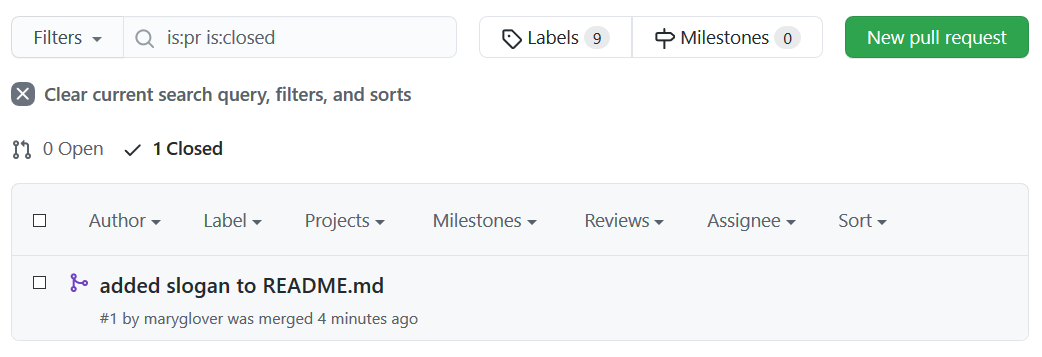
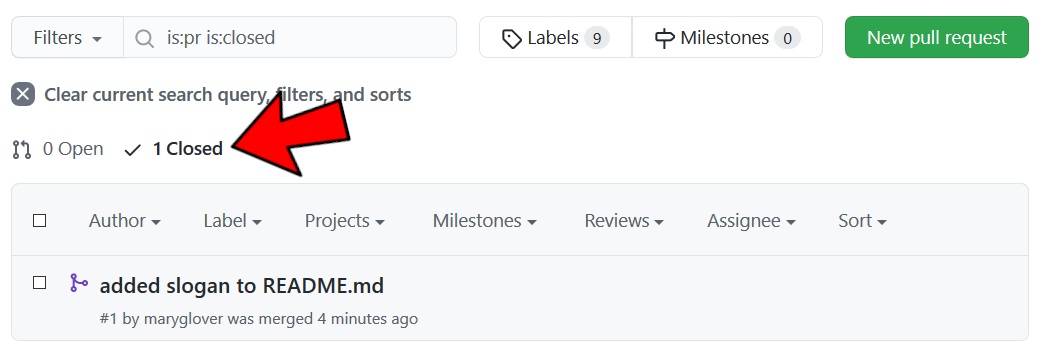
Add arrows to images

Changed region(s): [[0.215, 0.2465, 0.3378, 0.493]]

diff --git a/slides/issue.md b/slides/issue.md
@@ -19,7 +19,7 @@ You can reference users, commits, pull requests, and other issues in the text of
 
 To reference users, use the `@` sign followed by their name.
 
-To reference commits, use the first 7 digits of the commit's hash (it will look like `5d1001b`).
+To reference commits, use the first 7 digits of the commit's hash (it will look something like `5d1001b`).
 
 To reference pull requests and other issues, use the `#` sign followed by the number ID of the pull request or issue. They go up sequentially starting at `#1`.
 

diff --git a/slides/pages.md b/slides/pages.md
@@ -5,7 +5,7 @@
 
 GitHub provides free* web hosting through GitHub Pages. You can create a site associated with your user account (`{{ site.data.lesson.example.user }}.github.io`) or a page for any of your repos (`mycoolproject.github.io`). 
 
-* = Because GitHub is owned by Microsoft it is not guaranteed that any of the services they provide will be free forever. It is for now.
+\* = Because GitHub is owned by Microsoft it is not guaranteed that any of the services they provide will be free forever. It is for now.
 
 ===
 

diff --git a/slides/branch.md b/slides/branch.md
@@ -145,7 +145,7 @@ git branch -a
 ===
 
 You can also view the branches on GitHub. Switch between them with the dropdown menu or 
-view, create pull requests, or delete individual branches by clicking on `<n> branches`.
+view, create pull requests, or delete individual branches by clicking on "View all branches."
 
 ![github branches dropdown]({% include asset.html path="images/github_branch_dropdown.PNG" %})
 {:.captioned}
